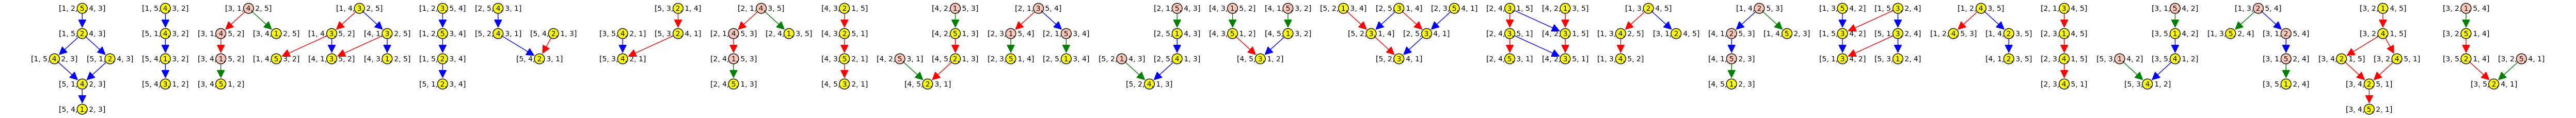
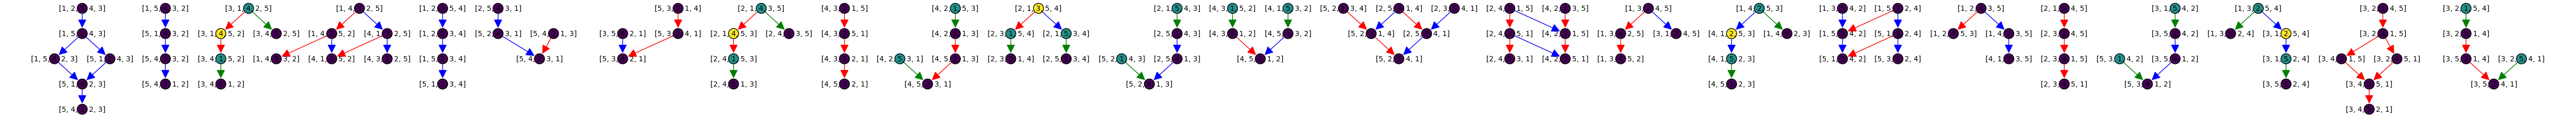
different colors for badness

diff --git a/knuth_moves.py b/knuth_moves.py
@@ -1,4 +1,7 @@
 from sage.all import *
+import matplotlib.cm as cm
+import matplotlib.colors as mcolors
+from collections import defaultdict
 
 def K1(pi: Permutation) -> set[Permutation]:
 	# If x < y < z and pi = x1...yxz..xn, then K1(pi) = x1..yzx...xn
@@ -47,7 +50,7 @@ def row_index(rows: list[list], x) -> int:
 			return i
 	raise ValueError(f"{x} not in {rows}")
 
-def abc(Q: Tableau) -> bool:
+def abc(Q: Tableau) -> int:
 	"""
 	A tableau has an abc pattern if there are 3 numbers x, y, and z such that:
 	1. x < y < z
@@ -55,16 +58,17 @@ def abc(Q: Tableau) -> bool:
 	3. z is to the right of x (but not necessarily in the same row)
 	4. y is in the same column as z or to the right of it
 	"""
+	count = 0
 	Q_T = [[row[i] for row in Q if i < len(row)] for i in range(max(Q.shape()))] # "transpose" of Q to help see if x is at the bottom of a column
 	for x, y, z, in increasing_subseqs(range(1, Q.size() + 1), 3):
 		x_row = row_index(Q_T, x)
 		y_row = row_index(Q_T, y)
 		z_row = row_index(Q_T, z)
 		if Q_T[x_row][-1] == x and z_row > x_row and y_row >= z_row:
-			return True
-	return False
+			count += 1
+	return count
 
-def abcd(Q: Tableau) -> bool:
+def abcd(Q: Tableau) -> int:
 	"""
 	A tableau has an abcd pattern if there are 4 numbers x, y, z, and w such that:
 	1. x < y < z < w
@@ -73,14 +77,15 @@ def abcd(Q: Tableau) -> bool:
 	4. z is somewhere to the right of x
 	5. y is in the same column as z or to the right of it
 	"""
+	count = 0
 	Q_T = [[row[i] for row in Q if i < len(row)] for i in range(max(Q.shape()))]
 	for x, y, z, w in increasing_subseqs(range(1, Q.size() + 1), 4):
 		x_row = row_index(Q_T, x)
 		y_row = row_index(Q_T, y)
 		z_row = row_index(Q_T, z)
 		if Q_T[x_row][-1] != x and Q_T[x_row][Q_T[x_row].index(x) + 1] == w and z_row > x_row and y_row >= z_row:
-			return True
-	return False
+			count += 1
+	return count
 
 def superstandard(shape: tuple[int]) -> Tableau:
 	result = []
@@ -148,22 +153,28 @@ def plot_connections(*,
 				pi_graph |= {pi1, pi2}
 
 	S_n = list(pi_graph)
-	good = [pi for pi in S_n if not abc(RSK(pi)[1]) and not abcd(RSK(pi)[1])]
-	bad = list(set(S_n) - set(good))
+	badness = {pi: abc(RSK(pi)[1]) + abcd(RSK(pi)[1]) for pi in S_n}
+	cmap = cm.get_cmap("viridis")
+	norm = mcolors.Normalize(vmin=0, vmax=max(badness.values()))
+	vertex_colors = defaultdict(list)
+	for pi in S_n:
+		vertex_colors[mcolors.to_hex(cmap(norm(badness[pi])))].append(pi)
 	g = DiGraph([S_n, K1_edges + K2_edges + KB_edges], multiedges=True)
 	g.plot(
-		vertex_colors={"yellow": good,},
+		vertex_colors=vertex_colors,
 		edge_colors={"red": K1_edges, "blue": K2_edges, "green": KB_edges},
 		figsize=(figsize, figsize),
 		layout="graphviz"
 	).save(filename)
 	if print_good:
+		good = [k for (k, v) in badness.items() if v == 0]
 		print(f"Good permutations ({len(good)}):")
 		for pi in good:
 			print(pi)
+		bad = list(set(S_n) - set(good))
 		print(f"\nBad permutations ({len(bad)}):")
 		for pi in bad:
-			print(pi)
+			print(f"{pi} (badness: {badness[pi]})")
 
 plot_connections(n=5, print_good=True, figsize=50)
 